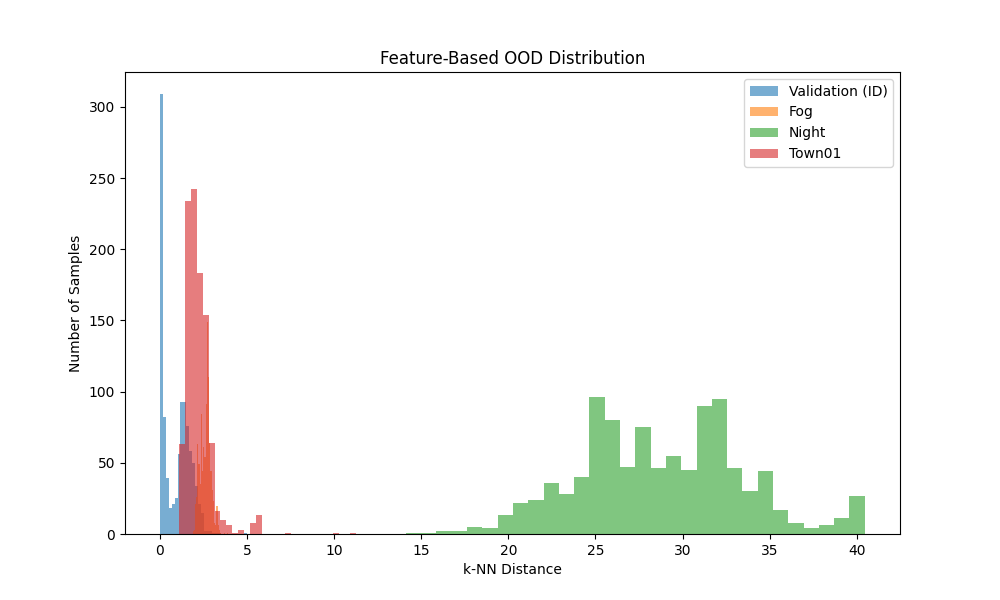
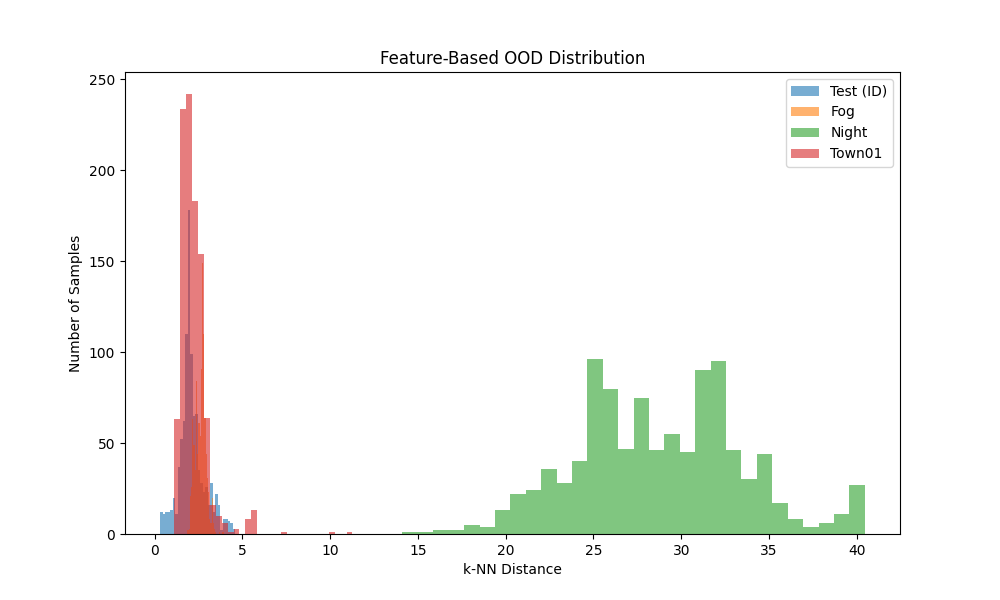
Correct OOD evaluation with independent ID data

diff --git a/scripts/evaluate_ood_knn_all_models.py b/scripts/evaluate_ood_knn_all_models.py
@@ -1,7 +1,9 @@
 """Evaluate feature-based k-NN OOD detection for all CARLA classifiers.
 
-The detector is fitted on 1,000 in-distribution validation embeddings for each
-classifier and then evaluated against fog, night, and Town-01 images.
+The detector is fitted on in-distribution validation embeddings. Its ID scores
+are then measured on a separate dry/day test subset before comparison with fog,
+night, and Town-01 images. Keeping the reference and evaluated ID images
+separate prevents a validation image from becoming its own nearest neighbour.
 
 Run from the project root:
     python scripts/evaluate_ood_knn_all_models.py
@@ -29,6 +31,7 @@ MODEL_CONFIGS = {
 }
 DATASETS = {
     "validation": PROJECT_ROOT / "data" / "validation" / "rgb-front",
+    "test": PROJECT_ROOT / "data" / "test" / "rgb-front",
     "fog": PROJECT_ROOT / "data" / "test-fog" / "rgb-front",
     "night": PROJECT_ROOT / "data" / "test-night" / "rgb-front",
     "town01": PROJECT_ROOT / "data" / "test-town-01" / "rgb-front",
@@ -134,7 +137,7 @@ def save_histogram(model_name, id_scores, scores_by_condition, output_dir):
     import matplotlib.pyplot as plt
 
     plt.figure(figsize=(10, 6))
-    plt.hist(id_scores, bins=30, alpha=0.6, label="Validation (ID)")
+    plt.hist(id_scores, bins=30, alpha=0.6, label="Test (ID)")
     for condition, scores in scores_by_condition.items():
         plt.hist(scores, bins=30, alpha=0.6, label=condition.title())
     plt.xlabel("Mean distance to 5 nearest validation embeddings")
@@ -154,20 +157,29 @@ def main():
     results = []
 
     print("Using device:", device)
+    print("Protocol: fit on validation; evaluate ID scores on the separate test split.")
     for model_name in args.models:
         print(f"\nEvaluating {model_name} model...")
         classifier = load_classifier(MODEL_CONFIGS[model_name], device)
         feature_model = FeatureExtractor(classifier).to(device).eval()
 
-        validation_features = extract_features(
+        reference_features = extract_features(
             feature_model,
             DATASETS["validation"],
             args.limit,
             args.batch_size,
             device,
         )
-        neighbors = NearestNeighbors(n_neighbors=5).fit(validation_features)
-        validation_scores = mean_knn_distance(neighbors, validation_features)
+        neighbors = NearestNeighbors(n_neighbors=5).fit(reference_features)
+
+        id_features = extract_features(
+            feature_model,
+            DATASETS["test"],
+            args.limit,
+            args.batch_size,
+            device,
+        )
+        id_scores = mean_knn_distance(neighbors, id_features)
 
         scores_by_condition = {}
         for condition in ("fog", "night", "town01"):
@@ -180,12 +192,16 @@ def main():
             )
             ood_scores = mean_knn_distance(neighbors, ood_features)
             scores_by_condition[condition] = ood_scores
-            auroc = compute_auroc(validation_scores, ood_scores)
+            auroc = compute_auroc(id_scores, ood_scores)
             results.append({
                 "model": model_name,
                 "condition": condition,
                 "detector": "feature_kNN_k5",
-                "images_per_set": args.limit,
+                "reference_split": "validation",
+                "id_split": "test",
+                "reference_images": len(reference_features),
+                "id_images": len(id_features),
+                "ood_images": len(ood_features),
                 "auroc": auroc,
                 "threshold": 0.90,
                 "verdict": "met" if auroc >= 0.90 else "not_met",
@@ -193,21 +209,11 @@ def main():
             print(f"  {condition.title()} AUROC: {auroc:.4f}")
 
         if args.save_plots:
-            save_histogram(model_name, validation_scores, scores_by_condition, output_dir)
+            save_histogram(model_name, id_scores, scores_by_condition, output_dir)
 
-        results_path = PROJECT_ROOT / "outputs" / "ood" / "knn_all_models_results.csv"
-        new_results = pd.DataFrame(results)
-        if results_path.exists():
-            existing_results = pd.read_csv(results_path)
-            combined_results = pd.concat([existing_results, new_results])
-            combined_results = combined_results.drop_duplicates(
-                subset=["model", "condition"],
-                keep="last",
-            )
-        else:
-            combined_results = new_results
-        combined_results.to_csv(results_path, index=False)
-        print(f"Saved results: {results_path}")
+    results_path = PROJECT_ROOT / "outputs" / "ood" / "knn_all_models_results.csv"
+    pd.DataFrame(results).to_csv(results_path, index=False)
+    print(f"Saved results: {results_path}")
 
 
 if __name__ == "__main__":

diff --git a/scripts/evaluate_ood_knn.py b/scripts/evaluate_ood_knn.py
@@ -2,7 +2,7 @@
 # 2. extract ResNet features
 # 3. fit k-NN on validation features
 # 4. compute distances:
-    # * validation
+    # * independent test (ID)
     # * fog
     # * night
     # * town01
@@ -182,7 +182,7 @@ def plot_histogram(
         id_scores,
         bins=30,
         alpha=0.6,
-        label="Validation (ID)"
+        label="Test (ID)"
     )
 
     plt.hist(
@@ -276,6 +276,13 @@ if __name__ == "__main__":
         "data/validation/rgb-front"
     )
 
+    print("Extracting independent test features...")
+
+    test_features = extract_features(
+        feature_model,
+        "data/test/rgb-front"
+    )
+
     print("Extracting fog features...")
 
     fog_features = extract_features(
@@ -313,9 +320,9 @@ if __name__ == "__main__":
     # COMPUTE DISTANCES
     # ==================================================
 
-    validation_scores = compute_knn_scores(
+    test_scores = compute_knn_scores(
         knn,
-        validation_features
+        test_features
     )
 
     fog_scores = compute_knn_scores(
@@ -340,7 +347,7 @@ if __name__ == "__main__":
     print("\nGenerating histogram...")
 
     plot_histogram(
-        validation_scores,
+        test_scores,
         fog_scores,
         night_scores,
         town_scores
@@ -351,17 +358,17 @@ if __name__ == "__main__":
     # ==================================================
 
     fog_auroc = compute_auroc(
-        validation_scores,
+        test_scores,
         fog_scores
     )
 
     night_auroc = compute_auroc(
-        validation_scores,
+        test_scores,
         night_scores
     )
 
     town_auroc = compute_auroc(
-        validation_scores,
+        test_scores,
         town_scores
     )
 

diff --git a/scripts/evaluate_ood_msp.py b/scripts/evaluate_ood_msp.py
@@ -138,7 +138,7 @@ def plot_histogram(
         id_scores,
         bins=30,
         alpha=0.6,
-        label="Validation (ID)"
+        label="Test (ID)"
     )
 
     plt.hist(
@@ -217,11 +217,11 @@ if __name__ == "__main__":
     # COMPUTE SCORES
     # ==================================================
 
-    print("\nComputing validation scores...")
+    print("\nComputing independent test ID scores...")
 
-    validation_scores = compute_msp_scores(
+    test_scores = compute_msp_scores(
         model,
-        "data/validation/rgb-front"
+        "data/test/rgb-front"
     )
 
     print("Computing fog scores...")
@@ -252,7 +252,7 @@ if __name__ == "__main__":
     print("\nGenerating histogram...")
 
     plot_histogram(
-        validation_scores,
+        test_scores,
         fog_scores,
         night_scores,
         town_scores
@@ -263,17 +263,17 @@ if __name__ == "__main__":
     # ==================================================
 
     fog_auroc = compute_auroc(
-        validation_scores,
+        test_scores,
         fog_scores
     )
 
     night_auroc = compute_auroc(
-        validation_scores,
+        test_scores,
         night_scores
     )
 
     town_auroc = compute_auroc(
-        validation_scores,
+        test_scores,
         town_scores
     )
 

diff --git a/README.md b/README.md
@@ -143,31 +143,31 @@ Two OOD detection approaches were implemented:
 
 | Condition | AUROC | Interpretation |
 |---|---|---|
-| Fog | 0.8104 | Good separation |
+| Fog | 0.7788 | Below the 0.90 threshold |
 | Night | 0.0000 | Complete failure |
-| Town01 | 0.6539 | Moderate separation |
+| Town01 | 0.6351 | Below the 0.90 threshold |
 
 ### Feature-Based k-NN OOD Detection Results
 
-Feature-based k-NN detection was evaluated for all three classifiers using 1,000 deterministic validation images and 1,000 images from each OOD condition. The suggested safety-case threshold is AUROC ≥ 0.90.
+Feature-based k-NN detection was evaluated for all three classifiers. For each model, 1,000 deterministic validation images form the k-NN reference set, while a separate set of 1,000 dry/day test images provides the ID scores. Those independent ID scores are compared with 1,000 images from each OOD condition. The suggested safety-case threshold is AUROC ≥ 0.90.
 
 | Model | Fog AUROC | Night AUROC | Town-01 AUROC | Verdict |
 |---|---:|---:|---:|---|
-| Pedestrian | 0.9844 | 1.0000 | 0.8956 | Partial — Town-01 is below threshold |
-| Traffic Light | 0.9698 | 1.0000 | 0.9556 | Met |
-| Vehicle | 0.9940 | 0.9971 | 0.8274 | Partial — Town-01 is below threshold |
+| Pedestrian | 0.7794 | 1.0000 | 0.5168 | Partial — only night meets the threshold |
+| Traffic Light | 0.6304 | 1.0000 | 0.6449 | Partial — only night meets the threshold |
+| Vehicle | 0.9473 | 0.9875 | 0.4311 | Partial — fog and night meet; Town-01 does not |
 
-The MSP baseline above was evaluated for the pedestrian detector only. It is retained as a confidence-based baseline; the final safety-case evidence uses feature-based k-NN because it gives substantially stronger separation for environmental OOD inputs.
+The MSP baseline above was evaluated for the pedestrian detector using the same independent dry/day ID test subset. The feature detector clearly improves nighttime separation, but it is not consistently better for fog or Town-01. The final safety-case evidence therefore treats k-NN as an evaluated monitoring candidate, not as a reliable deployed OOD mechanism.
 
 ### Key Findings
 
 - MSP confidence scoring failed catastrophically under nighttime conditions because the model remained highly confident despite severe environmental shift.
 - Feature-based k-NN detection successfully identified nighttime samples as strongly out-of-distribution.
-- Deep feature embeddings captured semantic environmental shifts more reliably than classifier confidence alone.
-- Town-01 represented a weaker semantic domain shift compared to fog and nighttime appearance degradation.
-- OOD failures were strongly correlated with degraded Grad-CAM explainability quality and semantic attention collapse.
+- Deep feature embeddings did not provide reliable separation for every environmental shift.
+- Town-01 was especially difficult: all three feature-based AUROC values remained below 0.90.
+- Several failed OOD conditions were also accompanied by degraded Grad-CAM attention; this is qualitative supporting evidence rather than a measured correlation.
 
-> ⚠ Safety implication: High prediction confidence does not guarantee reliable perception under environmental distribution shift. Feature-space monitoring provides significantly stronger OOD detection capability than confidence-based approaches alone.
+> ⚠ Safety implication: High prediction confidence does not guarantee reliable perception under environmental distribution shift. Feature-space monitoring helps for some shifts, but the tested detector is not reliable enough to enforce the ODD on its own.
 
 
 ## ⚔ Adversarial Robustness with FGSM (Exercise 8)
@@ -643,7 +643,7 @@ outputs/ood/plots/knn_histogram.png
 python evaluate_ood_knn_all_models.py
 ```
 
-This evaluates the pedestrian, traffic-light, and vehicle checkpoints on deterministic validation, fog, night, and Town-01 image subsets. It writes the AUROC evidence table to:
+This fits each detector on deterministic validation embeddings, scores an independent dry/day test subset as ID, and compares it with fog, night, and Town-01 subsets. It writes the AUROC evidence table to:
 
 ```bash
 outputs/ood/knn_all_models_results.csv
@@ -763,14 +763,14 @@ The most critical failure occurred under nighttime conditions:
 - Grad-CAM explanations degraded severely
 - The pedestrian detector remained overconfident despite semantic failure
 
-Feature-based k-NN detection substantially improved robustness monitoring. For the pedestrian detector, nighttime AUROC improved from 0.0000 to 1.0000, fog AUROC from 0.8104 to 0.9844, and Town-01 AUROC from 0.6539 to 0.8956. The all-model evaluation additionally confirmed that traffic-light k-NN detection passes the 0.90 AUROC threshold in fog, night, and Town-01, while pedestrian and vehicle Town-01 detection remain below the threshold.
+Feature-based k-NN detection substantially improved pedestrian nighttime separation from MSP AUROC 0.0000 to 1.0000. It did not provide a general improvement: pedestrian fog AUROC was 0.7794 and Town-01 AUROC was 0.5168. In the all-model evaluation, every model passed the 0.90 threshold for night, only the vehicle model passed for fog, and every model failed for Town-01.
 
 These results demonstrate that:
 - confidence alone is insufficient for uncertainty estimation,
-- feature-space monitoring is more reliable for OOD detection,
-- and explainability degradation strongly correlates with environmental robustness failures.
+- feature-space monitoring can help for particular shifts but is not consistently reliable,
+- Grad-CAM degradation provides qualitative support for the observed robustness failures, rather than a quantitative correlation.
 
-This analysis extends the system-level safety case by explicitly incorporating OOD detection as a runtime safety-monitoring mechanism.
+This analysis extends the system-level safety case by evaluating OOD detection as a candidate runtime monitor. The current implementation remains offline and does not provide a planner response or fallback action.
 
 ### Adversarial Robustness Safety Analysis
 
@@ -810,10 +810,11 @@ Adversarial training can reduce this risk but cannot eliminate it. Residual risk
 - 🌙 Night-condition explainability maps show complete loss of semantic object attention
 - 📉 Explanation quality degrades together with OOD robustness
 - 🌍 MSP-based OOD detection failed completely under nighttime conditions (AUROC = 0.0000)
-- 🧠 Feature-based k-NN detection achieved perfect nighttime separation for pedestrian and traffic-light inputs, and 0.9971 AUROC for vehicle inputs
-- ⚠ Town-01 k-NN OOD detection remains below the 0.90 threshold for pedestrian (0.8956) and vehicle (0.8274)
+- 🧠 Feature-based k-NN detection achieved perfect nighttime separation for pedestrian and traffic-light inputs, and 0.9875 AUROC for vehicle inputs
+- ⚠ Only vehicle k-NN OOD detection passed the fog threshold (0.9473)
+- ⚠ Town-01 k-NN OOD detection remained below 0.90 for pedestrian (0.5168), traffic light (0.6449), and vehicle (0.4311)
 - ⚠ High classifier confidence does not guarantee safe perception under environmental shift
-- 🔍 Deep feature embeddings are substantially more reliable for OOD detection than output confidence alone
+- 🔍 Deep feature embeddings improved some shifts but were not consistently more reliable than output confidence
 - ⚔ Untargeted FGSM reduced pedestrian recall to zero at every tested ε
 - 🚦 Traffic-light recall dropped by 0.8101 at ε=0.01
 - 🚗 Vehicle recall dropped by 0.8246 at ε=0.05

diff --git a/EVIDENCE.md b/EVIDENCE.md
@@ -40,7 +40,7 @@ authoritative mapping.
 | V-1 | ID recall >= 0.90 for pedestrian and >= 0.85 for traffic light/vehicle | Pedestrian recall 0.1076; traffic-light 0.9358; vehicle 0.8537 | Not met |
 | V-2 | Recall drop at FGSM epsilon 0.05 < 0.10 | Drops of 0.1923, 0.8987 and 0.8246 | Not met |
 | V-3 | Test ECE < 0.05 after validation-only temperature selection | ECE 0.0385, 0.0246 and 0.0177 | Met |
-| V-4 | k-NN OOD AUROC >= 0.90 for every model/shift | Pedestrian Town-01 0.8956; vehicle Town-01 0.8274 | Partial |
+| V-4 | k-NN OOD AUROC >= 0.90 for every model/shift | All models pass night; only vehicle passes fog; all models fail Town-01 | Partial |
 | V-5 | Invalid/OOD/low-confidence input leads to a verified minimal-risk response | Required fallback functions are not implemented | Not met |
 
 ## V-1: in-distribution detection performance
@@ -144,21 +144,24 @@ python evaluate_ood_knn_all_models.py
 
 For each classifier, the script extracts ResNet-18 embeddings from the first
 1,000 lexicographically sorted validation images and fits a five-nearest-
-neighbour detector. It compares the resulting mean distances with 1,000 images
-from fog, night and Town-01 separately.
+neighbour detector. ID scores are measured on a separate set of 1,000 standard
+dry/day test images, avoiding the self-neighbour bias that would occur if the
+validation reference images were also used as the evaluated ID set. Those ID
+scores are compared with 1,000 images from fog, night and Town-01 separately.
 
 | Model | Fog AUROC | Night AUROC | Town-01 AUROC | Result |
 |---|---:|---:|---:|---|
-| Pedestrian | 0.9844 | 1.0000 | 0.8956 | Partial |
-| Traffic light | 0.9698 | 1.0000 | 0.9556 | Met |
-| Vehicle | 0.9940 | 0.9971 | 0.8274 | Partial |
+| Pedestrian | 0.7794 | 1.0000 | 0.5168 | Partial |
+| Traffic light | 0.6304 | 1.0000 | 0.6449 | Partial |
+| Vehicle | 0.9473 | 0.9875 | 0.4311 | Partial |
 
 **Primary record:**
 [`outputs/ood/knn_all_models_results.csv`](outputs/ood/knn_all_models_results.csv)
 
-The overall verdict is partial because two Town-01 comparisons fall below
-0.90. The monitor was evaluated offline and is not connected to the planner, so
-this result cannot by itself satisfy continuous ODD enforcement.
+The overall verdict is partial: all three models meet the threshold for night,
+only the vehicle model meets it for fog, and none meets it for Town-01. The
+monitor was evaluated offline and is not connected to the planner, so this
+result cannot by itself satisfy continuous ODD enforcement.
 
 ## V-5: safe system fallback
 
